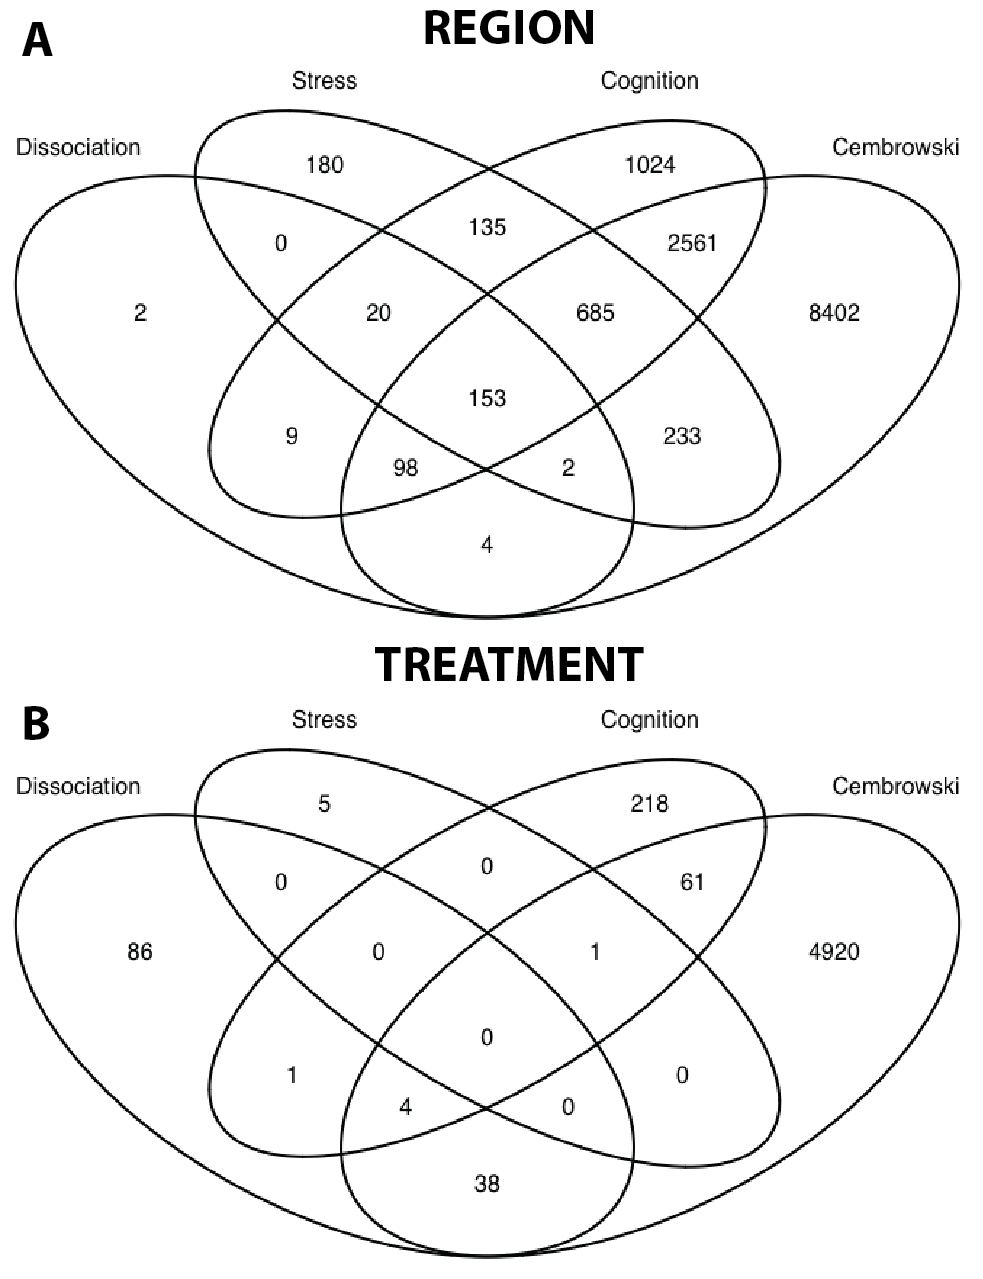
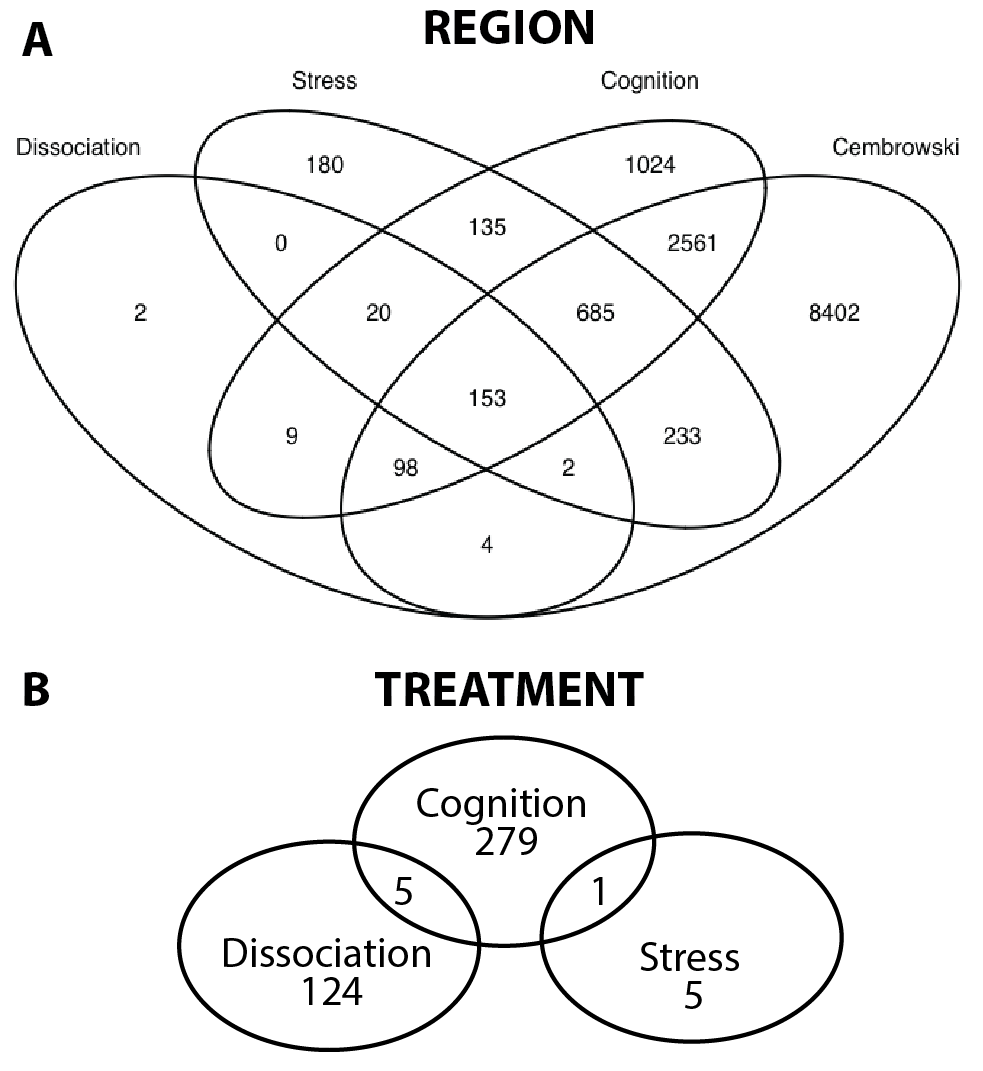
new venn all

diff --git a/markdownfiles/05_combo.md b/markdownfiles/05_combo.md
@@ -4,3 +4,7 @@ Comparing Rayna's data and the Cembrowski data
 ![](../figures/05_combo/VennDiagramRegion-1.png)
 
 ![](../figures/05_combo/VennDiagramTreatement-1.png)
+
+![](../figures/05_combo/VennDiagramTreatementAnyCembrowski-1.png)
+
+![](../figures/05_combo/VennDiagramTreatementNoCembrowski-1.png)
